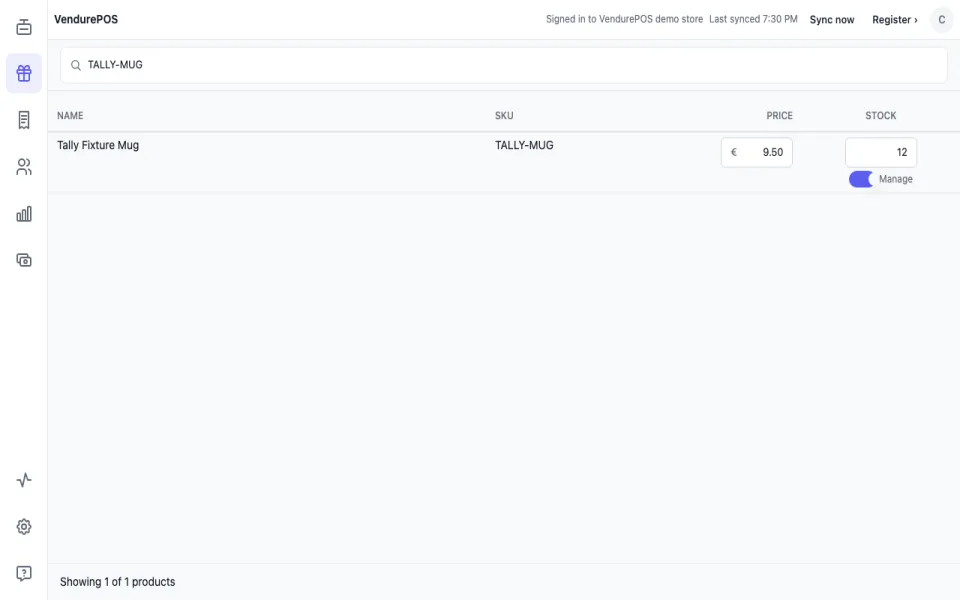
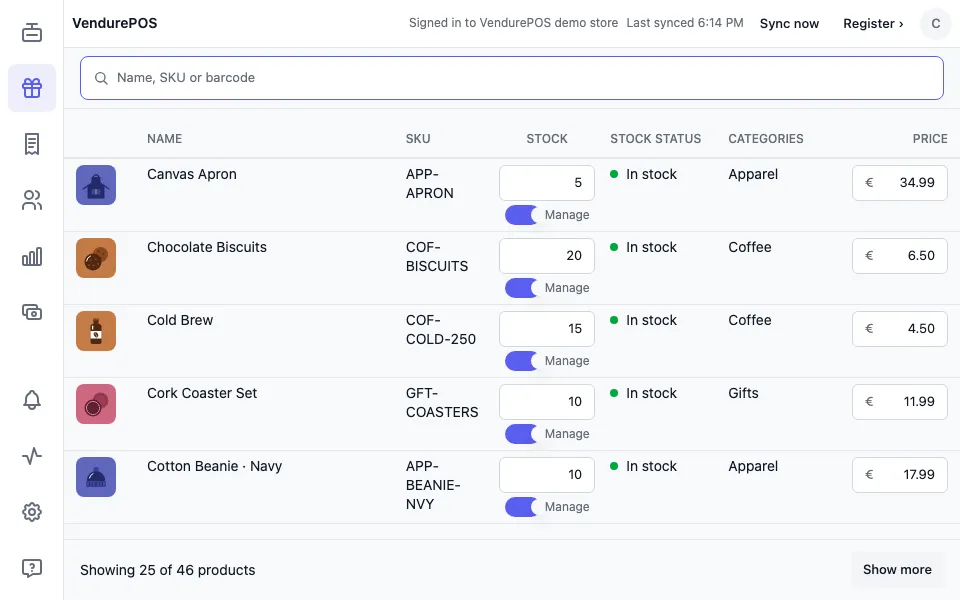
test(products): search for the mug past page one, clear for the shot; refresh shot 08, 10.2 line

diff --git a/apps/pos/e2e/demo.spec.ts b/apps/pos/e2e/demo.spec.ts
@@ -591,12 +591,16 @@ test("the Products panel shows each variant's image, stock status and categories
   await openRegister(page);
   await page.getByTestId('products-open').click();
   const panel = page.getByTestId('products-panel');
+  // The mug is past the first page of 25, so it is searched for, then the search is cleared for the shot.
+  await page.getByTestId('products-search').fill('TALLY-MUG');
   await expect(panel.getByTestId(`product-image-${MUG_VARIANT_ID}`)).toBeVisible();
   await expect(panel.getByTestId(`product-stock-status-${MUG_VARIANT_ID}`)).toHaveText('In stock');
   await expect(panel.getByTestId(`product-categories-${MUG_VARIANT_ID}`)).not.toHaveText('—');
   await expect(panel.getByTestId(`product-categories-${MUG_VARIANT_ID}`)).toHaveText(/\w/);
   await expect(panel.getByText('Stock status', { exact: true })).toBeVisible();
   await expect(panel.getByText('Categories', { exact: true })).toBeVisible();
+  await page.getByTestId('products-search').fill('');
+  await expect(page.getByTestId('products-count')).toHaveText(/^Showing 25 of /);
   // The demo-pairs size, as 10e; the PNG is made docs/v2-parity/demo-pairs/08-products-vendurepos.webp (cwebp -q 80).
   await page.setViewportSize({ width: 960, height: 600 });
   await page.screenshot({ path: test.info().outputPath('08-products-vendurepos.png') });

diff --git a/docs/v2-parity/CHECKLIST.md b/docs/v2-parity/CHECKLIST.md
@@ -218,7 +218,7 @@ This file is the screen-by-screen, flow-by-flow list behind that goal. `AUDIT.md
 | ![](demo-pairs/13d-store-health-wcpos.webp) | ![](demo-pairs/13d-store-health-vendurepos.webp) |
 
 - [ ] **10.1 Customers screen:** list, search, edit. List and search done (specs B15a, B15b, B15b2): a Customers door between Orders and Reports opens the store's customers from Vendure's `customers` list, by surname, in v2's table (avatar, first and last name, email, default billing address, date created; a stacked row on a phone), 25 at a time with Show more and "Showing N of M customers", searched by name, email or phone. The walk-in customer is left out. A scan closes the panel and adds. Demo e2e "the Customers panel lists the store's customers by surname, searches them, and a scan closes it and adds". The door shows only to a role that can read customers (spec B15d, #246), and the billing address is two lines, as v2 (spec B15e, #247). Add and edit done (spec 10.1c, #356): an Add customer button and an Edit button on each row open v2's right-hand "Edit <name>" sheet with first and last name, email and phone. A save goes straight to Vendure (`createCustomer`, or `updateCustomer` with only the changed fields) and the list re-reads from the store, so a refusal such as a taken email shows the store's reason and leaves the row as the store has it. Offline, Save is blocked rather than queued. Add shows only to a role with Create customer and Edit only to one with Update customer; the plugin's till role holds Update customer and never Delete customer (#358; an existing role gains it at the next New POS till key). Demo e2e "the Customers panel adds and edits customers on the store; a refused save leaves the row as the store has it" and smoke on the dev store; shot 06d. *Left:* billing and shipping addresses, company, tax IDs and custom fields in the sheet, which wait on the shared TallyUI address editor (5.2, *shared*), and no delete. *Shared* then *app.*
-- [ ] **10.2 Products screen:** stock and price edited inline, with a manage-stock switch. *Plugin + app.* Done (#281): a Products door after POS opens a panel over the sale with TallyUI's `ProductTable` (Name, SKU, Price, Stock), one row per variant from the local catalogue, searched like the till, 25 at a time with Show more and "Showing N of M products"; a scan closes it and adds (demo e2e "the Products panel lists the catalogue's variants with SKU, price and stock, searches them, and a scan closes it and adds"). Done (#286): a single-variant product's price and stock are edited inline, with a Manage switch, for an administrator with `UpdateCatalog` or `UpdateProduct`. The price is offered only when the till's currency and tax mode are the channel's. A stock write re-reads the store and refuses when the saleable figure moved since the sync. The Manage switch shows the effective setting (a variant on INHERIT follows the store's Track inventory), and a flip writes TRUE or FALSE, so that variant stops following the store's setting. Done (#342 and this PR): a stock write is one compare-and-set call to the plugin's `POST /tally/v1/variants/:id/stock`, under the sale's stock lock, so a sale between the read and the write is refused, never overwritten; a plugin without the route answers 404 with no code, and the till falls back to the re-read and write (the demo takes that path). Done (10.2e, this PR): each variant row of a multi-variant product edits its own price, stock and Manage switch the same way, through the same per-variant writes (demo e2e "the Products panel edits one variant of a multi-variant product, and its sibling keeps its price and stock", shot `demo-pairs/08e-products-variant-edit-vendurepos.webp`). *Left:* v2's grouped "N variations" row (*shared:* `ProductTable` rows are per product).
+- [ ] **10.2 Products screen:** stock and price edited inline, with a manage-stock switch. *Plugin + app.* Done (#281): a Products door after POS opens a panel over the sale with TallyUI's `ProductTable` (Name, SKU, Price, Stock), one row per variant from the local catalogue, searched like the till, 25 at a time with Show more and "Showing N of M products"; a scan closes it and adds (demo e2e "the Products panel lists the catalogue's variants with SKU, price and stock, searches them, and a scan closes it and adds"). Done (#286): a single-variant product's price and stock are edited inline, with a Manage switch, for an administrator with `UpdateCatalog` or `UpdateProduct`. The price is offered only when the till's currency and tax mode are the channel's. A stock write re-reads the store and refuses when the saleable figure moved since the sync. The Manage switch shows the effective setting (a variant on INHERIT follows the store's Track inventory), and a flip writes TRUE or FALSE, so that variant stops following the store's setting. Done (#342 and this PR): a stock write is one compare-and-set call to the plugin's `POST /tally/v1/variants/:id/stock`, under the sale's stock lock, so a sale between the read and the write is refused, never overwritten; a plugin without the route answers 404 with no code, and the till falls back to the re-read and write (the demo takes that path). Done (10.2e, this PR): each variant row of a multi-variant product edits its own price, stock and Manage switch the same way, through the same per-variant writes (demo e2e "the Products panel edits one variant of a multi-variant product, and its sibling keeps its price and stock", shot `demo-pairs/08e-products-variant-edit-vendurepos.webp`). Done (10.2f, this PR): v2's other display columns. The columns are now Image (the product's featured asset, no head label), Name, SKU, Stock, Stock status (a coloured dot with In stock, Out of stock or On backorder, from the variant's own stock level) and Categories (the product's Vendure collections), then Price. Demo e2e "the Products panel shows each variant's image, stock status and categories, as v2's products table"; shot `demo-pairs/08-products-vendurepos.webp` refreshed. Regular and Sale price stay out (2.5 ruling). *Left:* v2's grouped "N variations" row (*shared:* `ProductTable` rows are per product) and the filters (10.2g).
 - [x] **10.3 Store health:** "Ready to sell", changes waiting to send, records that need attention (Fix / Retry), per-collection coverage. VendurePOS has Settings › Sync log and "Last synced / Sync now". *App.* Done (#273, #280): a Store health door at the rail's foot opens a panel with "Ready to sell" (or the first reason it is not), records on this device, changes waiting to send, and a table of on-device counts for Products, Orders, Refunds, Parked sales and Closures (demo e2e "Store health shows Ready to sell, nothing waiting and the products on this device, and a scan closes it and adds"). Records that need attention list as reference · total — reason, with Open (into the Orders panel) and, where the Orders panel offers it, Retry (unit tests only: the demo has no refused sale). Done (#290): an On server column and coverage against the store's own totals. Done (P10.3e): v2's View log › once per attention callout, opening Settings › Sync log, where the refusal is logged with the order's id (smoke e2e "a rejected sale needs attention…"; shot `demo-pairs/13f-store-health-view-log-vendurepos.webp`). Done (P10.3d, desk ruling 2026-11-18): v2's Fix record. The record's Open now reads Fix record, and the refused sale's sheet shows the store's reason with a primary Retry that resends it and returns to the list (smoke e2e "Store health's Fix record…"; shot `demo-pairs/13g-store-health-fix-record-vendurepos.webp`). Editing a refused sale in the cart is not built (backlog, one-way). Done (10.3b, #324): "Check everything now" at the panel's foot, and the Products row's "Clear & re-download" (a confirm, then the catalogue database is removed and downloads again; sales, refunds, parked carts and closures are kept), as v2's Database tab (demo e2e "Store health checks everything now, and Clear & re-download empties and refills the products and the till still sells"). Clear & re-download is off until the store answers, and asks the store again on Yes; a till that cannot reach it, or a Cancel during that check, keeps its catalogue (unit tests). Done (10.3f): v2's drawer badge. The rail's Store health item counts the errors the sync log has kept since it was last open, warnings never; opening Settings › Sync log clears it, and the count starts at 0 when the app opens (smoke e2e "a store error badges Store health…"; shot `demo-pairs/13h-store-health-error-badge-vendurepos.webp`). Done (10.3g): v2's storage used and "N stuck". On the web the header shows the browser's storage estimate for this origin beside the record count (native shows none: there is no equivalent call), and the Orders row carries a red "N stuck" chip counting the records that need attention (demo e2e "Store health shows Ready to sell…", smoke e2e "a rejected sale needs attention…"; shot `demo-pairs/13i-store-health-stuck-vendurepos.webp` beside v2's 13d, and 13f now shows the storage stat). Done (10.3i, #355, desk ruling 2026-11-20, recorded as a chosen addition over v2): a Sync cadence card under Store health offers Standard (the unchanged default: a re-pull every 60 s with the adapter's page of up to 100), TallyUI's Eco, Balanced and Realtime presets, and Custom clamped to TallyUI's limits (5 s to 5 min, 10 to 100 records). The choice is kept on this device; a new interval applies at once, a new page size at the next start (unit tests; demo e2e "Store health › Sync cadence keeps this till's choice…"; shot `demo-pairs/13j-store-health-sync-cadence-vendurepos.webp`, VendurePOS only). *Left:* v2's per-collection Size column.
 - N/A **10.4 Coupons screen.** Vendure promotions are managed in the Vendure admin (`AUDIT.md` §19). A coupon-code field in the cart is a separate row once one is found in WCPOS's cart.
 
